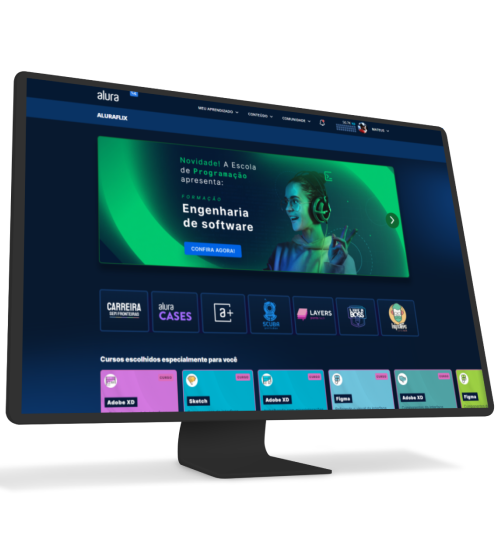
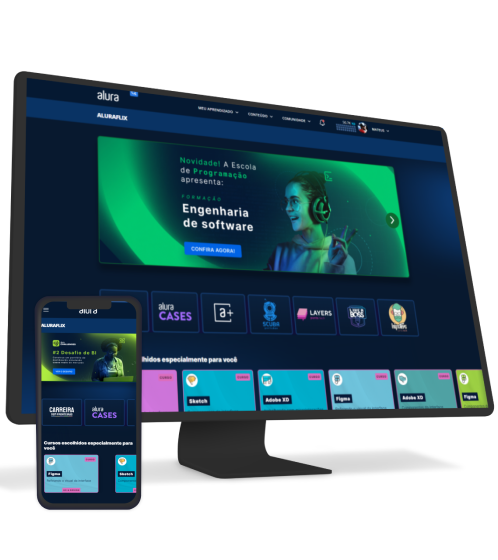
Terceira parte do alura plus feita

Changed region(s): [[0.0602, 0.5161, 0.3012, 0.9107]]

diff --git a/index.html b/index.html
@@ -26,6 +26,23 @@
             <h2 class="descricao__titulo">Assista do seu Jeito!</h2>
             <p class="descricao__texto">Aproveite a tela grande da TV ou assista no tablet, laptop, celular e outros aparelhos. Nossa seleção de curso não para de crescer.</p>
         </div>
-    </section>
+        </section>
+
+            <section class="container secundario">
+                <div class="container__descricao">
+                    <p class="descricao__texto">Só o Combo+ oferece Alura+ e Alura Língua juntos para você ter acesso a cursos de diversas áreas da tecnologia e aprender inglês ou espanhol, onde e como quiser.</p>
+                    <a href="alura.com.br" class="container__botao secundario__botao">Assista o Combo+</a>
+                </div>
+                <img src="./assets/Telas.png" alt="Tela alura plus" class="secundario__img">
+            </section>
+
+            <section class="container secundario">
+                
+                    <img src="./assets/Notebook.png" alt="" class="secundario__img">
+                    <div class="container__descricao">
+                        <h2 class="descricao__titulo">Baixe seus cursos</h2>
+                        <p class="descricao__texto">Baixe e assista quando e onde quiser. Assim, seus favoritos estão sempre com você, até mesmo sem internet.</p>
+                    </div>    
+            </section>
 </body>
 </html>

diff --git a/style.css b/style.css
@@ -85,3 +85,14 @@ body {
 .descricao__texto {
     color: var(--cinza-secundario);
 }
+
+.secundario__botao {
+    display: inline-block;
+}
+
+.terceiro__container {
+    display: flex;
+}
+.secundario__img2 {
+    width: 60%;
+}
